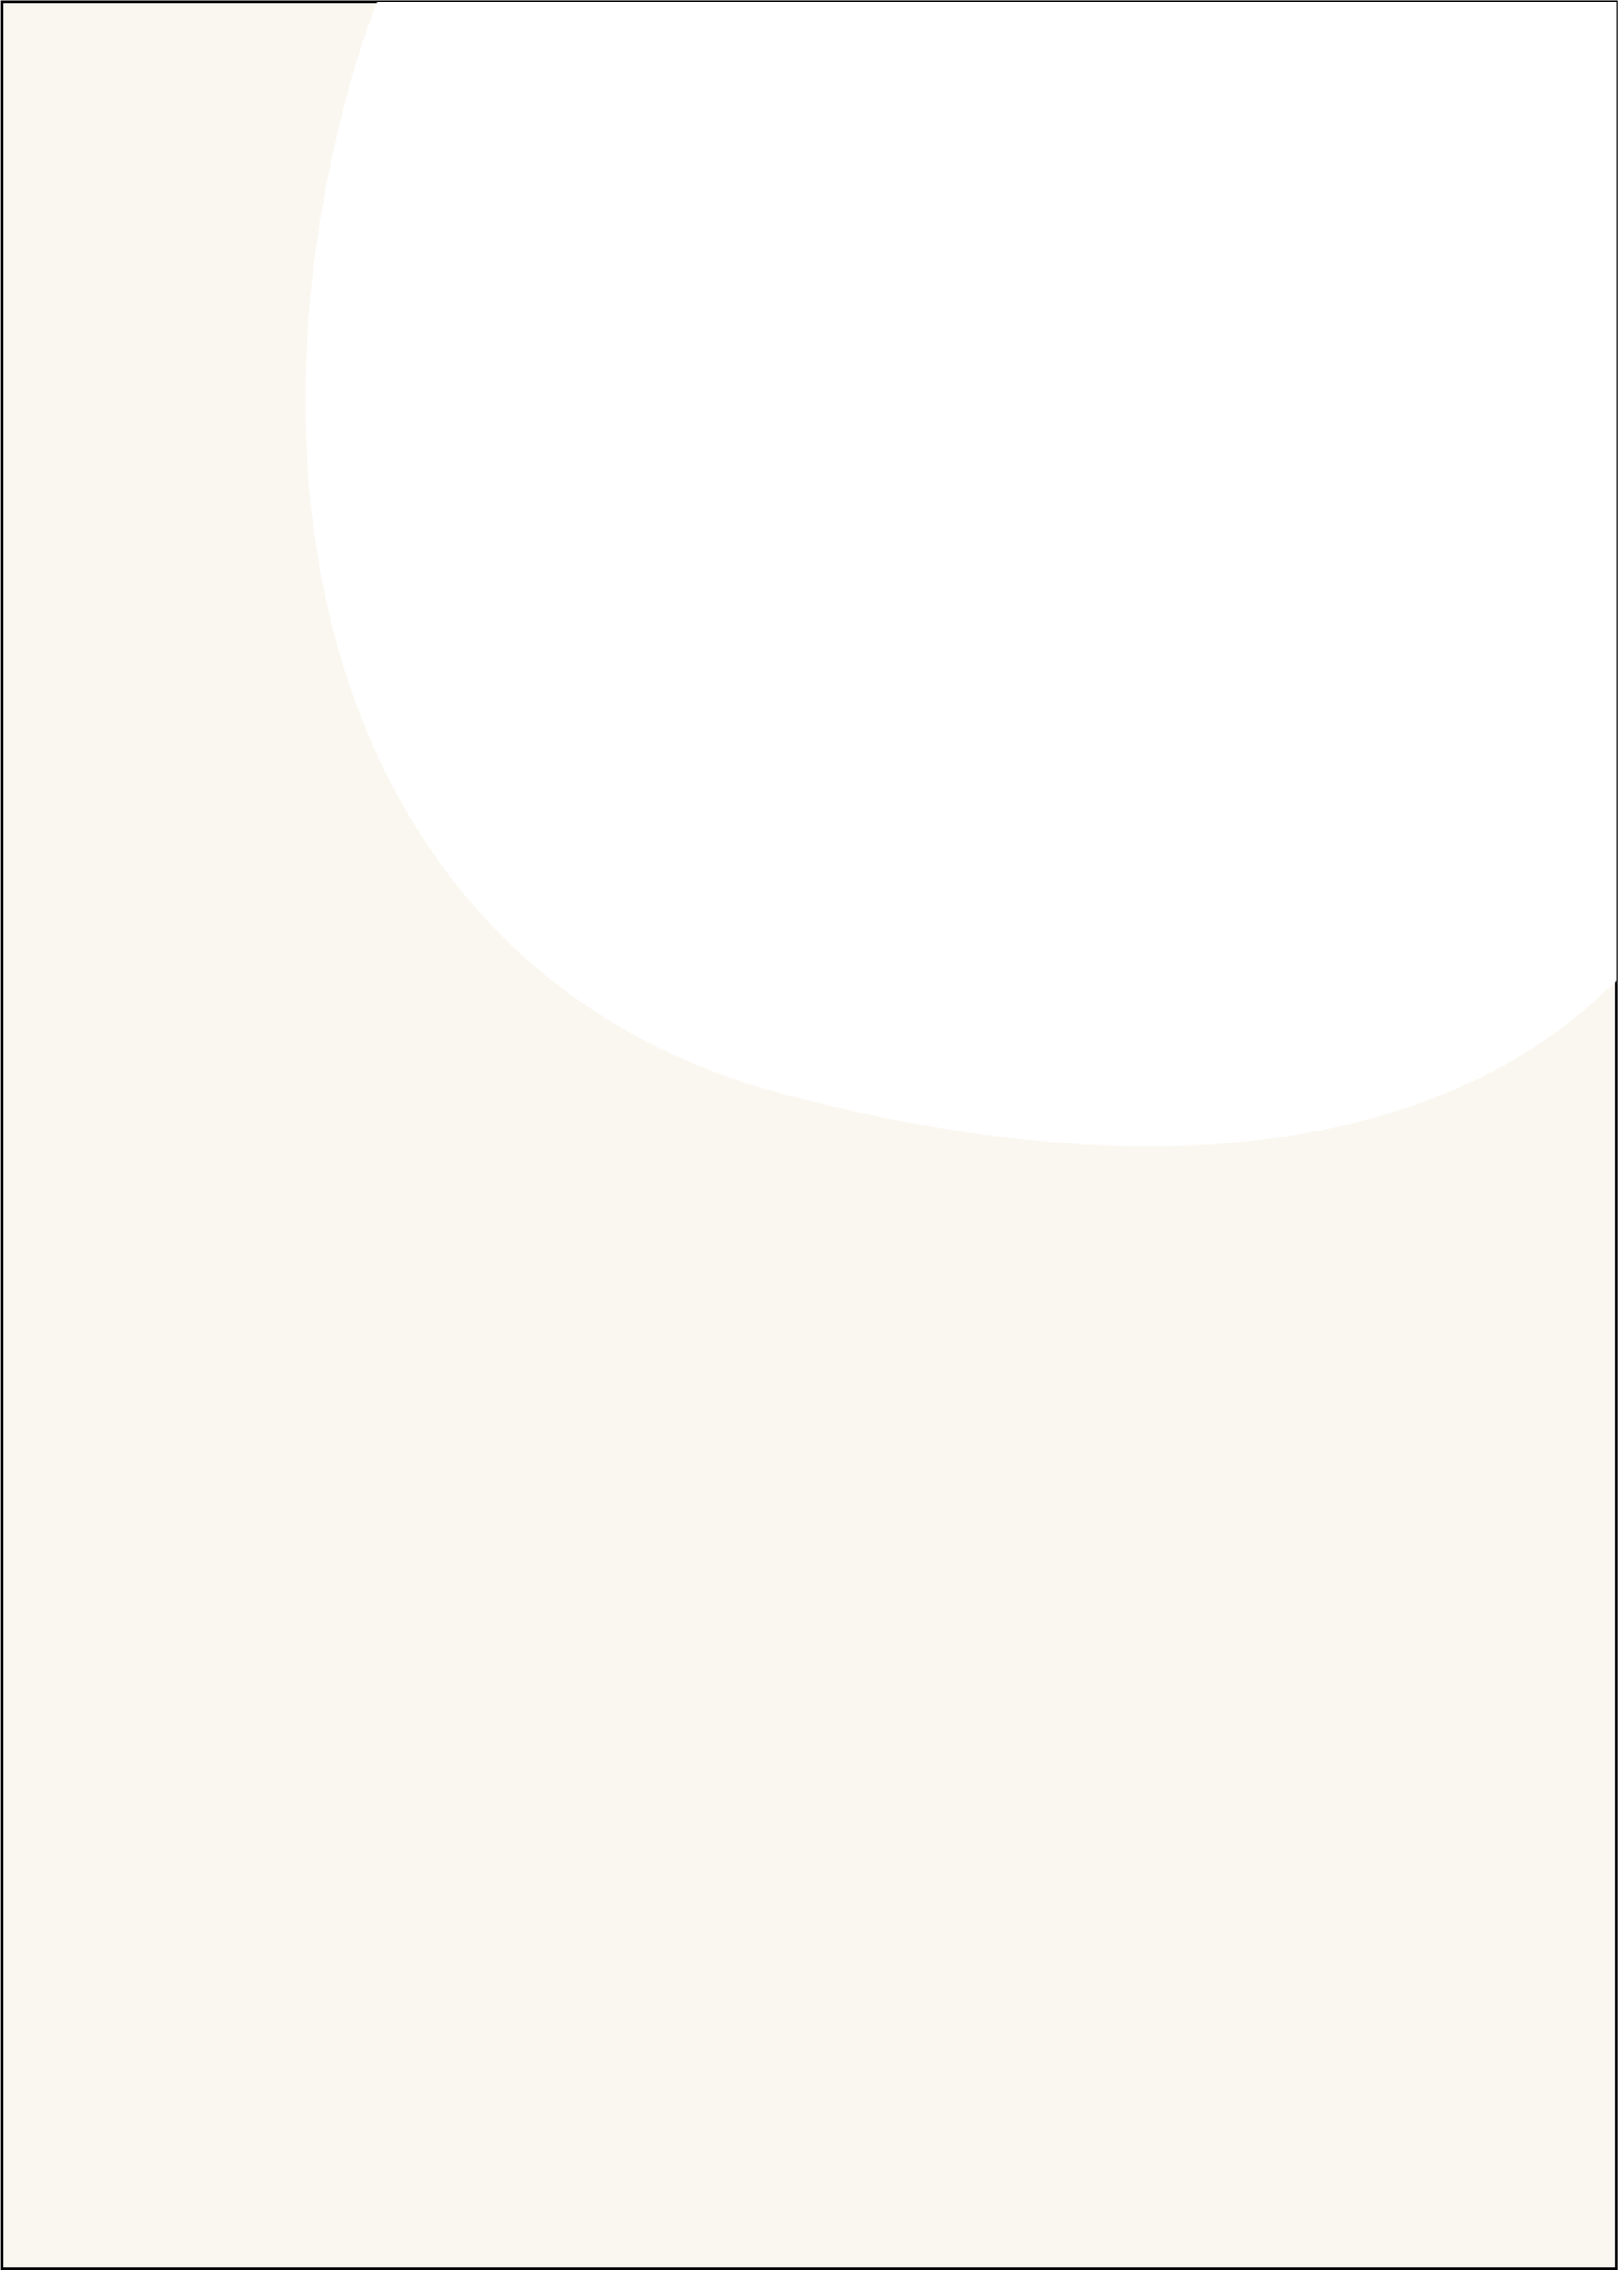
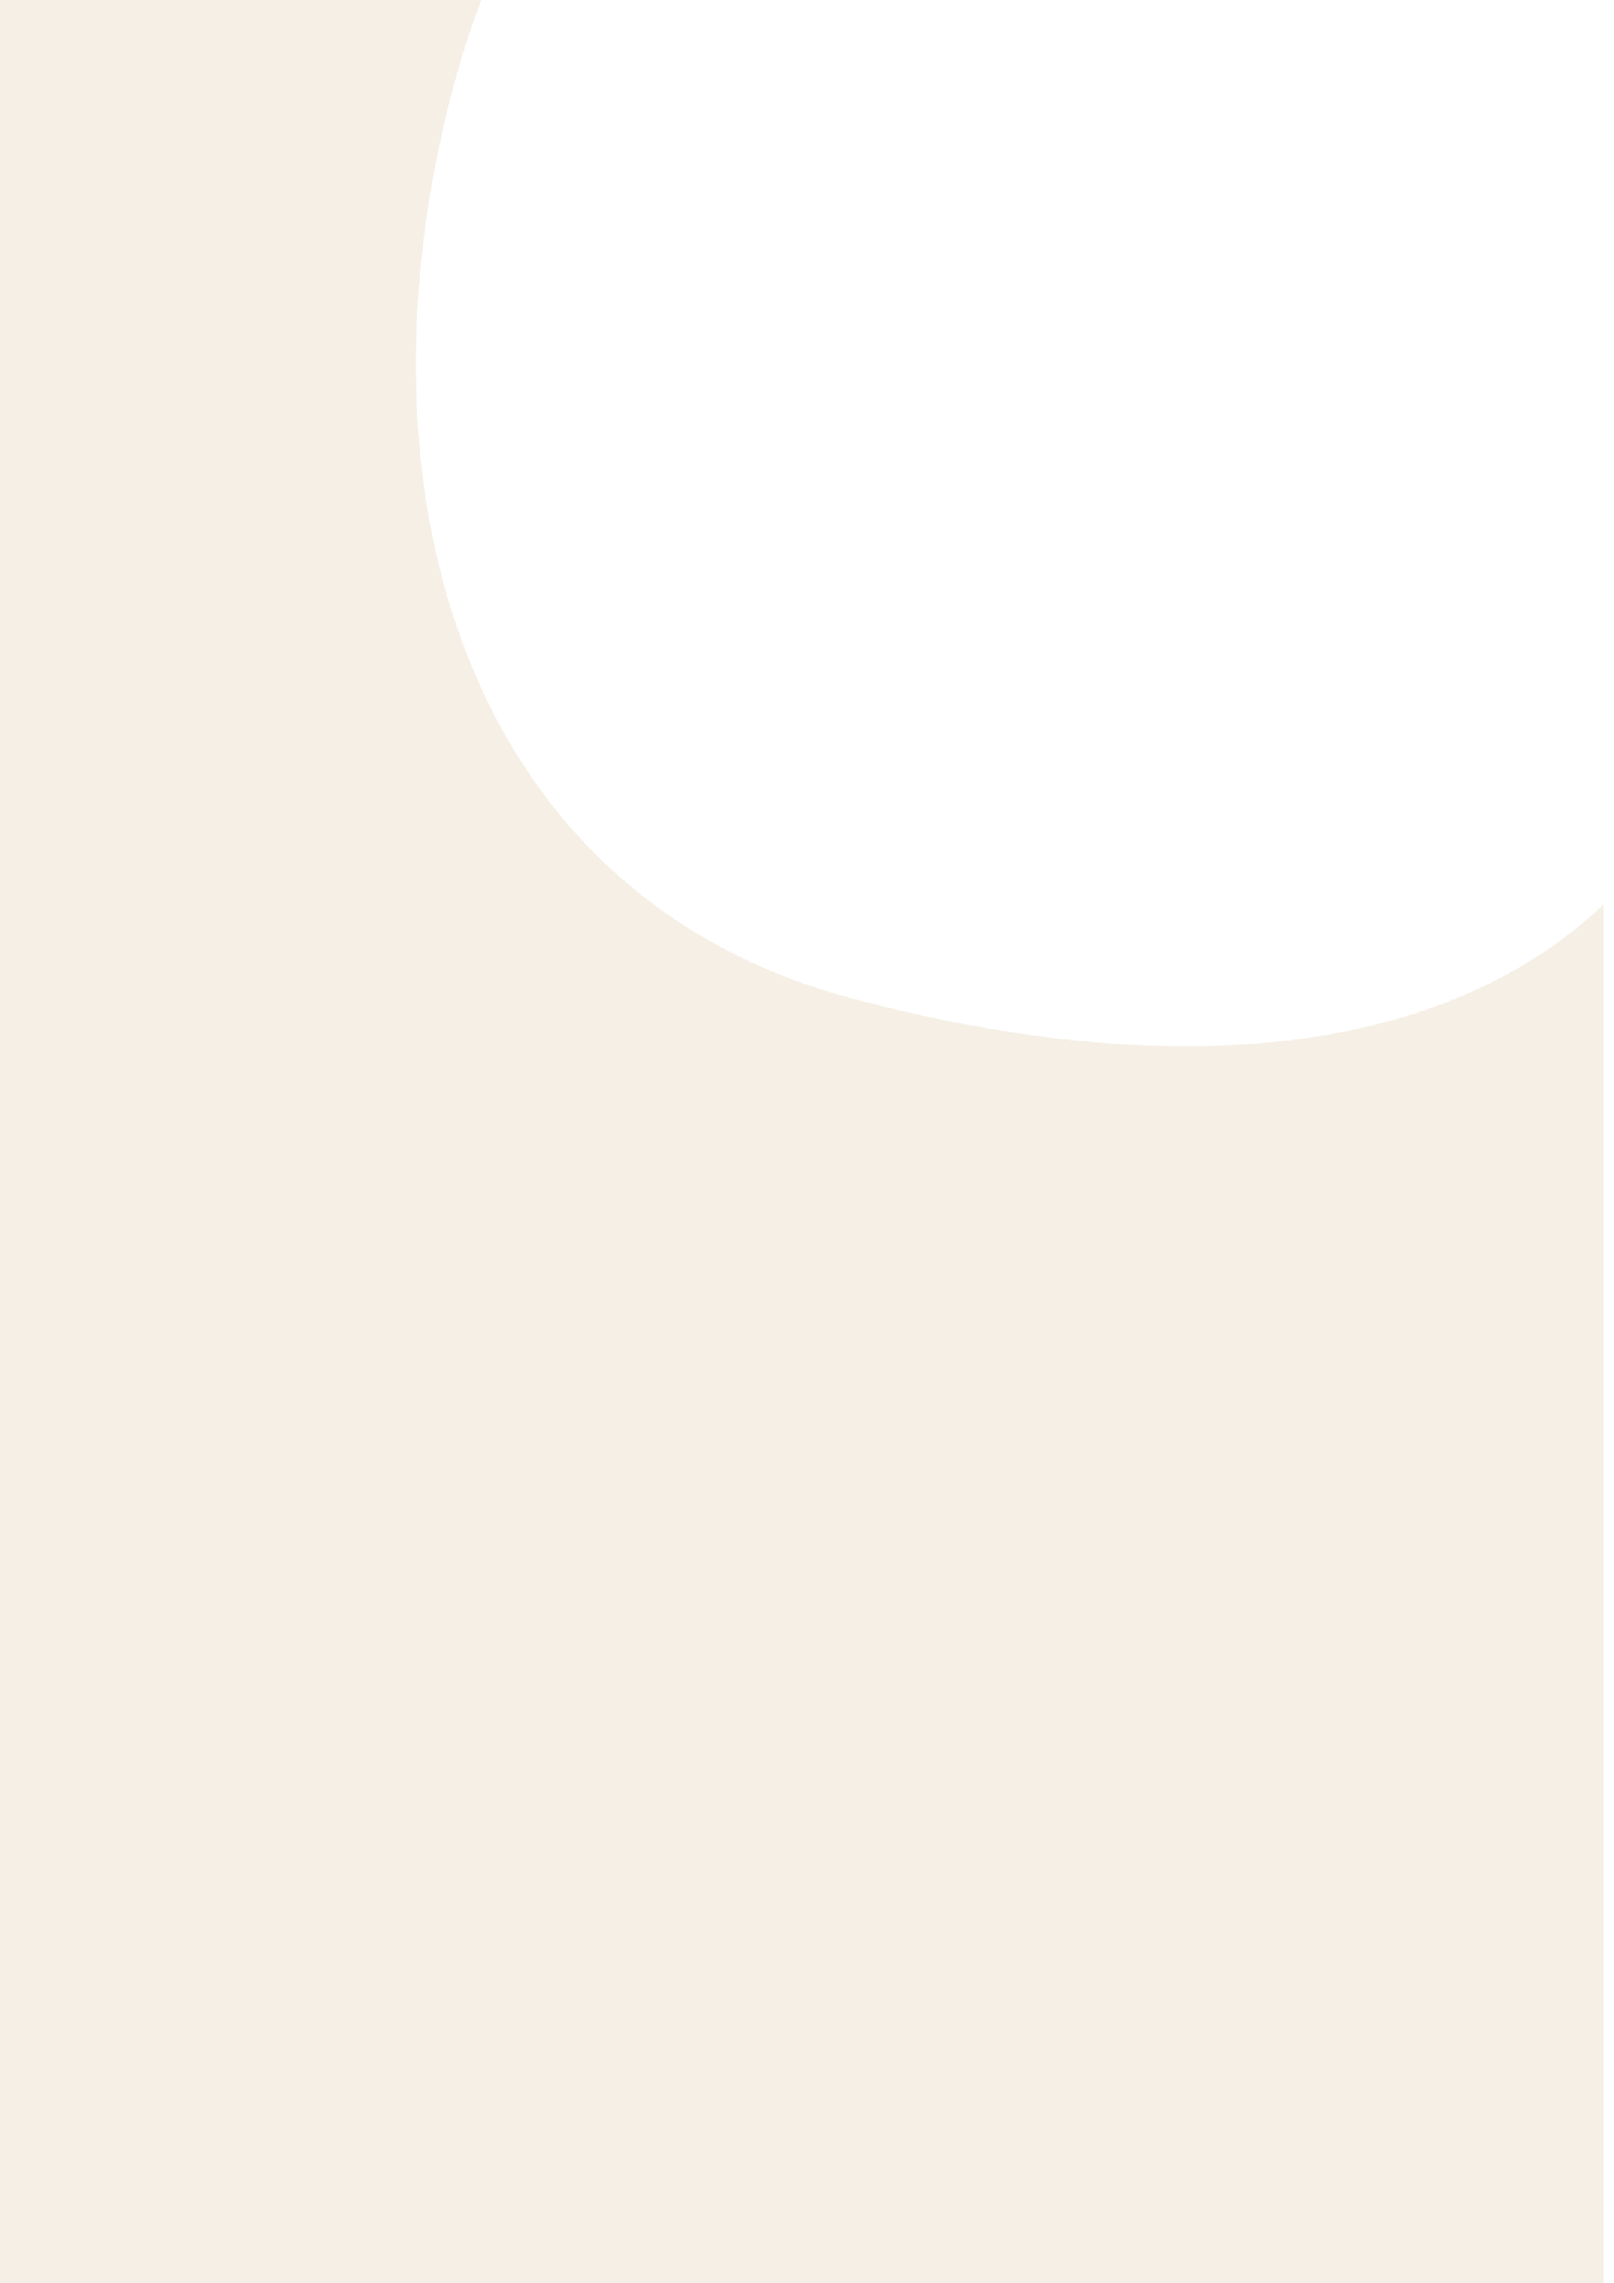
added new changes

Changed region(s): [[0.0, 0.0, 1.0, 1.0], [0.0, 0.0, 0.031, 0.0312]]

diff --git a/about.html b/about.html
@@ -12,7 +12,7 @@
     <link href="https://fonts.googleapis.com/css2?family=Ceviche+One&family=Cutive+Mono&family=Josefin+Slab&family=Mochiy+Pop+One&family=Permanent+Marker&display=swap" rel="stylesheet"/>
 
     <body>
-        <header>
+        <div id="top-section">
             <nav class="main-nav-bar">
                 <div>
                     <a class="main-page-links" href="menu.html">menu</a>
@@ -41,46 +41,36 @@
                     <a href="index.html"><img src="img/ohBearLogo.png" alt="The Oh Bear Cafe Logo"/></a>
                 </div>
             </nav>
-        </header>
-        <article id="upper-article">
-            <img class="upper-article-image" src="img/about/article3.png"/>
+            <section id="our-story">
+                <img src="img/about/our-story.png" alt="">
+                <div>
+                    <h2>Our Story</h2>
+                    <p>OH Bear Cafe was started by Sophie Lee, who is passionate about making and sharing sweets! </p>
+                </div>
+            </section>
+        </div>
+        <section id="find-us">
             <div>
-                <h1>Our Story</h1>
-                <p>
-                    OH Bear Cafe is a cafe that sells a variety of items meant for consumption to satisify a consumer’s appetitie and satiety. The Cafe was opened in....
+                <h2>Find Us</h2>
+                <p>We are located in the University District just minutes away from the UW campus!
+                <br>
+                <br>
+                4708 11th Ave NE
+                Seattle, WA 98105
+                <br>
+                <br>
+                Our hours are:
+                <br>
+                <br>
+                Mon - Fri:
+                11:00 AM - 6:00 PM
+                Sat & Sun:
+                11:00 AM - 8:00 PM
+                <br>
                 </p>
             </div>
-        </article>
-        <article id="lower-article">
-            <h1>Meet Our Team</h1>
-            <div class="right-img-article">
-                <div>
-                    <h2>Sophie</h2>
-                    <p>
-                        OH Bear Cafe is a cafe that sells a variety of items meant for consumption to satisify a consumer’s appetitie and satiety. The Cafe was opened in....
-                    </p>
-                </div>
-                <img src="img/about/article1.png"/>
-            </div>
-            <div class="left-img-article">
-                <img src="img/about/article2.png"/>
-                <div>
-                    <h2>Cashier</h2>
-                    <p>
-                        OH Bear Cafe is a cafe that sells a variety of items meant for consumption to satisify a consumer’s appetitie and satiety. The Cafe was opened in....
-                    </p>
-                </div>
-            </div>
-            <div class="right-img-article">
-                <div>
-                    <h2>Chef Specifically</h2>
-                    <p>
-                        OH Bear Cafe is a cafe that sells a variety of items meant for consumption to satisify a consumer’s appetitie and satiety. The Cafe was opened in....
-                    </p>
-                </div>
-                <img src="img/about/article1.png"/>
-            </div>
-        </article>
+            <img src="img/about/find-us.png" alt="">
+        </section>
         <nav class="main-nav-bar" id="bottom-nav-bar">
             <div id="oh-bear-logo-bottom">
                 <a href="index.html"><img src="img/ohBearLogo.png" alt="The Oh Bear Cafe Logo"/></a>
@@ -94,7 +84,7 @@
                 <a class="main-page-links" href="menu.html">menu</a>
             </div>
             <div>
-                <a class="main-page-links" href="about.html">about</a>
+                <a class="main-page-links" href="about.html" id="selected-nav-bar">about</a>
             </div>
             <div>
                 <a class="main-page-links" href="contact.html">contact us</a>

diff --git a/about.css b/about.css
@@ -1,77 +1,66 @@
 html, body {
   font-family: Josefin Slab;
-  size: 30px;
+  font-size: 30px;
+  background-color: #f5efe5;
 }
 
-#upper-article {
-  margin-left: 0px;
-  margin-right: 0px;
-  background-color: #d0c1b6;
-  display: flex;
-  max-width: 100vw;
+.main-nav-bar {
+  background: none;
+  background-size: cover;
 }
 
-.upper-article-image {
-  /* border: 5px black solid; */
-  /* border-radius: 9%; */
-  margin: 60px 100px 60px 120px;
-  width: 540px;
-  height: 420px;
-}
-
-a, a:visited {
+.main-nav-bar a, .main-nav-bar a:visited {
   color: black;
 }
 
-#upper-article div {
-  padding: 0px;
-  margin: 130px 300px 60px 50px;
+#top-section {
+  background-image: url("img/about/background-1.png");
+  background-size: cover;
+  padding-bottom: 400px;
 }
 
-#lower-article {
-  background-color: white;
-  padding: 100px 100px 100px 100px;
-}
-
-#lower-article p {
-  width: 900px;
-}
-
-.right-img-article {
-  margin-top: 50px;
+#our-story {
   display: flex;
+  margin-top: 2%;
+  justify-content: space-between;
 }
 
-.right-img-article img {
-  margin-left: 100px;
+#our-story img {
+  margin-left: 5%;
+  background-image: url("img/about/image-back.png");
+  padding: 20px 0px 55px 50px;
+  background-size: cover;
+
 }
 
-.left-img-article img {
-  margin-right: 100px;
+#our-story div {
+  margin-left: 5%;
+  margin-right: 3%;
 }
 
-.left-img-article {
-  margin-top: 50px;
+#our-story p {
+  font-family: "Cutive Mono";
+  font-size: 24px;
+}
+
+#find-us {
+  padding-left: 10%;
+  padding-bottom: 30%;
+  padding-top: 10%;
+  background-image: url("img/about/background-2.png");
+  background-size: cover;
   display: flex;
+  flex-direction: row;
+  justify-content: space-between;
 }
 
-h1 {
-  margin: 0px;
-  font-weight: 400;
-  font-size: 90px;
-  font-family: "Josefin Slab", serif;
+#find-us div {
+  width: 50%;
 }
 
-h2 {
-  font-size: 40px;
-  font-weight: 400;
-  font-family: "Cutive Mono", monospace;
-}
-
-#upper-article p, #lower-article p {
-  width: 650px;
-  margin: 0px;
-  padding: 0px;
-  font-size: 25px;
-  font-family: "Cutive Mono", monospace;
+#find-us img {
+  margin-right: 10%;
+  margin-top: 5%;
+  width: fit-content;
+  height: fit-content;
 }

diff --git a/menu.html b/menu.html
@@ -9,24 +9,16 @@
     rel="stylesheet"
     href="https://cdnjs.cloudflare.com/ajax/libs/font-awesome/4.7.0/css/font-awesome.min.css"
   />
-  <link
-    rel="stylesheet"
-    href="https://cdnjs.cloudflare.com/ajax/libs/font-awesome/4.7.0/css/font-awesome.min.css"
-  />
   <link rel="preconnect" href="https://fonts.googleapis.com" />
   <link rel="preconnect" href="https://fonts.gstatic.com" crossorigin />
   <link
     href="https://fonts.googleapis.com/css2?family=Ceviche+One&family=Josefin+Slab&family=Mochiy+Pop+One&family=Permanent+Marker&display=swap"
     rel="stylesheet"
   />
-  <link rel="preconnect" href="https://fonts.googleapis.com" />
-  <link rel="preconnect" href="https://fonts.gstatic.com" crossorigin />
   <link
     href="https://fonts.googleapis.com/css2?family=Ceviche+One&family=Cutive+Mono&family=Josefin+Slab&family=Mochiy+Pop+One&family=Permanent+Marker&display=swap"
     rel="stylesheet"
   />
-  <link rel="preconnect" href="https://fonts.googleapis.com" />
-  <link rel="preconnect" href="https://fonts.gstatic.com" crossorigin />
   <link
     href="https://fonts.googleapis.com/css2?family=Chonburi&display=swap"
     rel="stylesheet"

diff --git a/order.css b/order.css
@@ -2,11 +2,10 @@
     background: none;
     background-size: cover;
     background-repeat: no-repeat;
+    margin: 0;
     align-self: center;
-    padding-top: 25px;
-    margin: 0px;
     font-size: 30px;
-    font-family: "Cutive Mono", monospace;
+    font-family: Josefin Slab;
 }
 
 html, body {
@@ -62,6 +61,7 @@ html, body {
   padding: 20px;
   font-size: 20px;
 }
+
 #parent img {
   margin-left: 100px;
   margin-top: 50px;

diff --git a/menu.css b/menu.css
@@ -3,10 +3,9 @@
   background-size: cover;
   background-repeat: no-repeat;
   align-self: center;
-  padding-top: 25px;
   margin: 0px;
   font-size: 30px;
-  font-family: "Cutive Mono", monospace;
+  font-family: Josefin Slab;
 }
 
 .main-page-links, .main-page-links:visited, #socials a, #socials a:visited {
